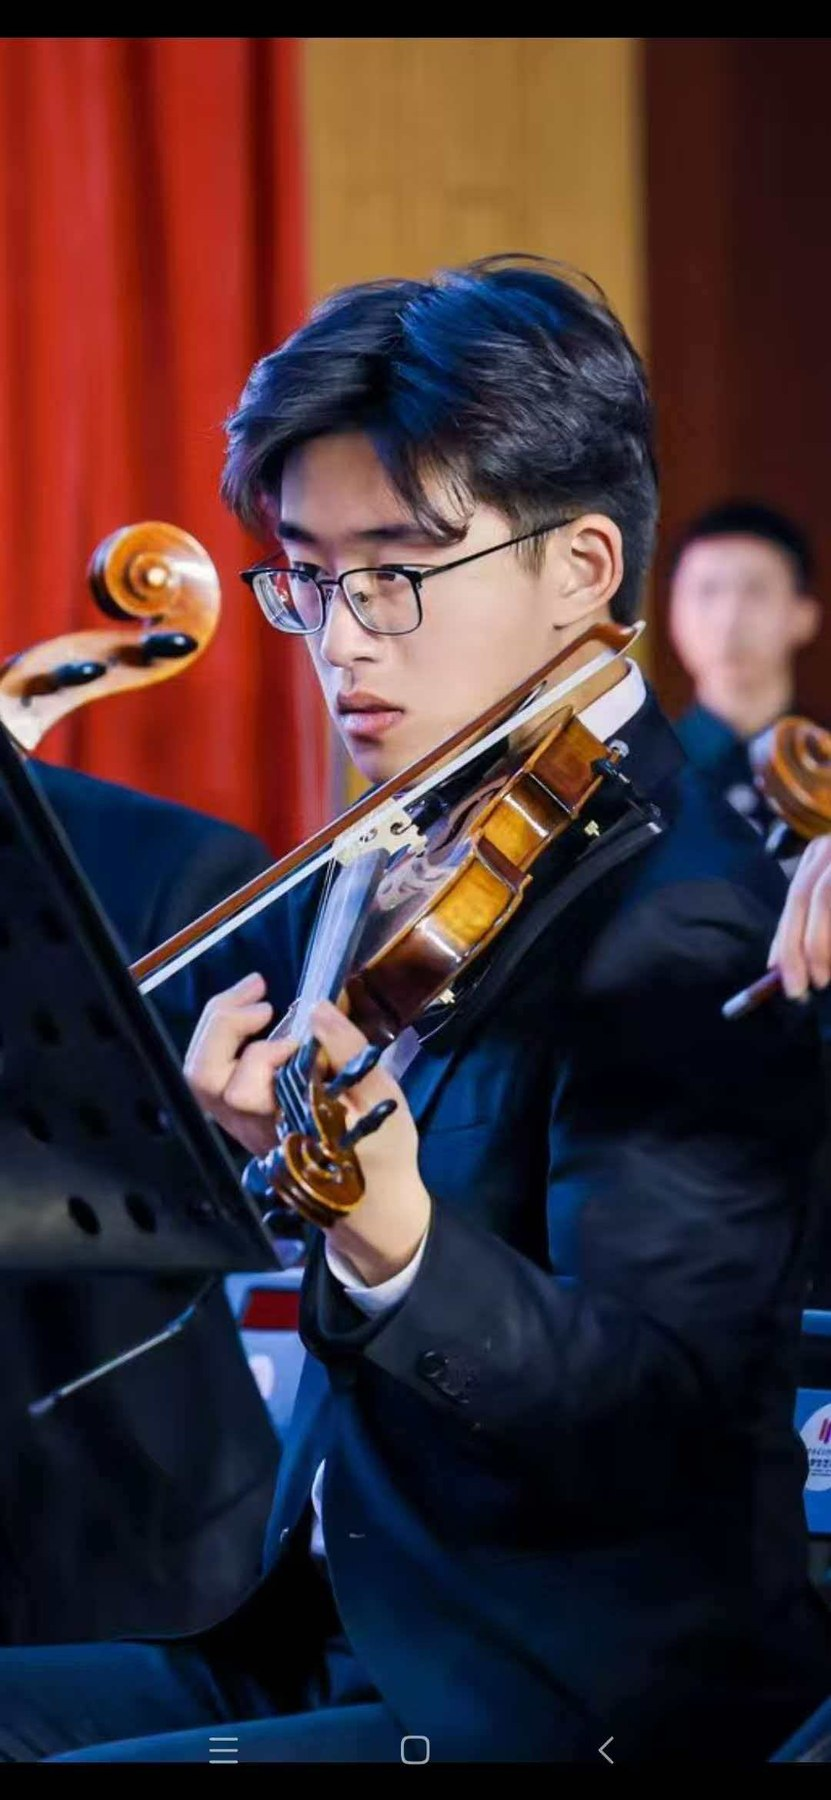
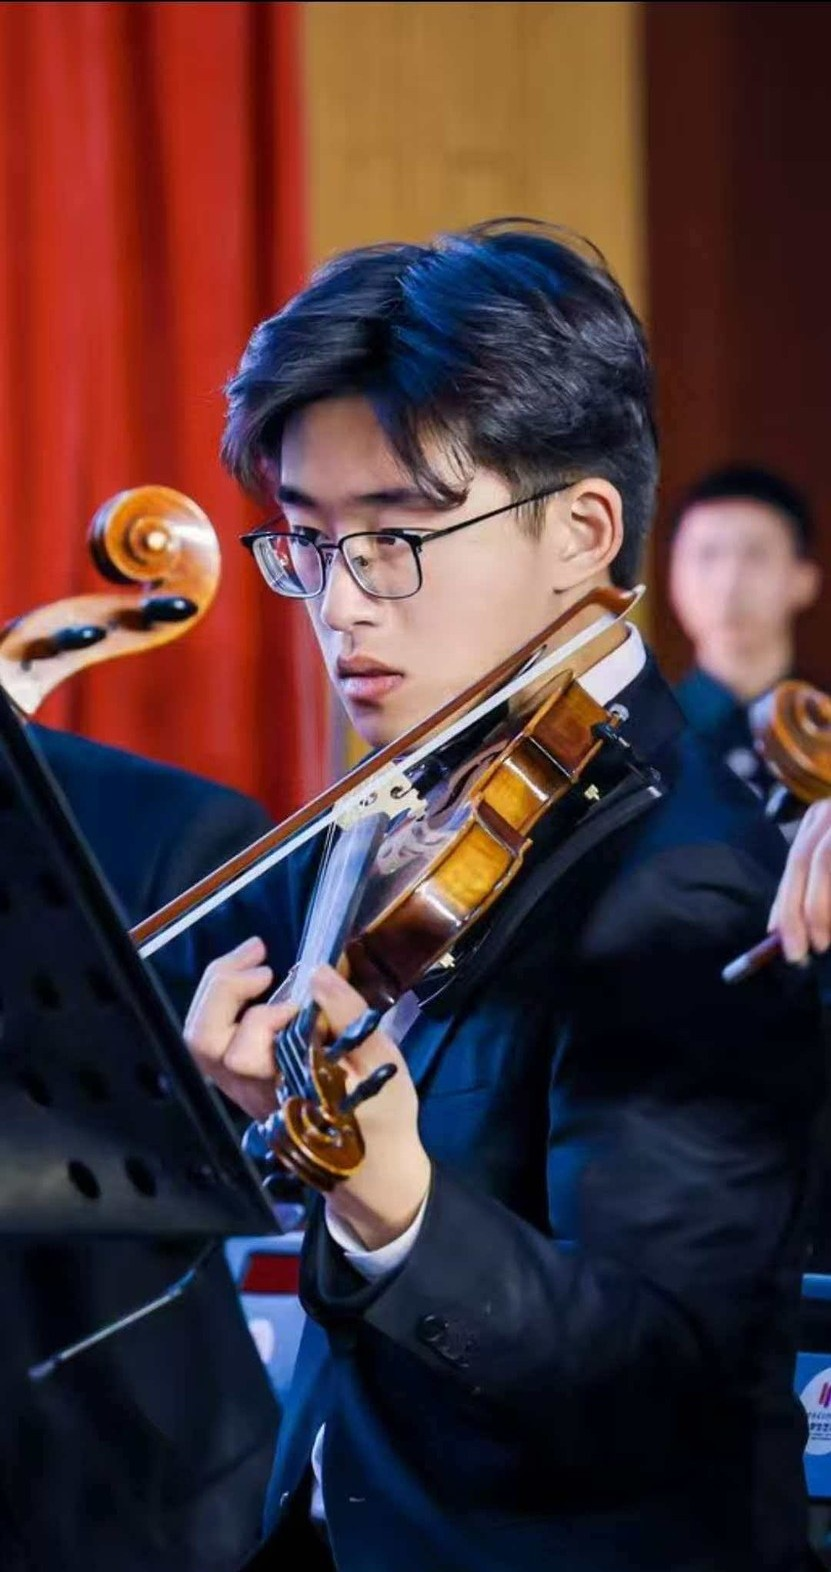
优化移动端展示与生活剪影

diff --git a/index.html b/index.html
@@ -12,8 +12,8 @@
   <meta property="og:url" content="https://biochemaiwill.github.io/" />
   <link rel="canonical" href="https://biochemaiwill.github.io/" />
   <title>Tianxiang Wu — AI × Drug Discovery</title>
-  <link rel="stylesheet" href="styles.css?v=20260822-7" />
-  <script defer src="script.js?v=20260822-7"></script>
+  <link rel="stylesheet" href="styles.css?v=20260822-8" />
+  <script defer src="script.js?v=20260822-8"></script>
 </head>
 <body>
   <div class="page-noise" aria-hidden="true"></div>
@@ -42,6 +42,12 @@
       </div>
     </div>
   </header>
+  <nav class="mobile-bottom-nav" aria-label="Mobile navigation">
+    <a href="#profile" data-i18n="nav.profile">Profile</a>
+    <a href="#research" data-i18n="nav.research">Research</a>
+    <a href="#experience" data-i18n="nav.experience">Experience</a>
+    <a href="#contact" data-i18n="nav.links">Links</a>
+  </nav>
 
   <main id="top">
     <section class="hero">
@@ -97,6 +103,17 @@
         <div class="fact"><span class="fact-label" data-i18n="facts.current.label">Current</span><strong data-i18n="facts.current.org">Tsinghua AIR</strong><small data-i18n="facts.current.value">Research Intern</small></div>
         <div class="fact"><span class="fact-label" data-i18n="facts.education.label">Education</span><strong data-i18n="facts.education.org">Xidian University</strong><small data-i18n="facts.education.value">Computer Science</small></div>
         <div class="fact"><span class="fact-label" data-i18n="facts.focus.label">Focus</span><strong data-i18n="facts.focus.org">AI4Science</strong><small data-i18n="facts.focus.value">Data · Molecules · Proteins</small></div>
+      </div>
+
+      <div class="mobile-profile-panel reveal">
+        <span data-i18n="mobile.kicker">Mobile overview</span>
+        <strong data-i18n="mobile.title">Research, honors and projects at a glance</strong>
+        <div class="mobile-stat-grid">
+          <a href="#profile"><b>2 / 96</b><small data-i18n="mobile.rank">Track ranking</small></a>
+          <a href="#research"><b>CCF A</b><small data-i18n="mobile.paper">Published work</small></a>
+          <a href="#profile"><b data-i18n="mobile.scholarship.value">National</b><small data-i18n="mobile.scholarship">Scholarship</small></a>
+          <a href="#experience"><b>714 h</b><small data-i18n="mobile.service">Service record</small></a>
+        </div>
       </div>
 
       <a class="scroll-cue" href="#research"><span data-i18n="scroll">Scroll to research</span><i></i></a>
@@ -258,7 +275,7 @@
       <div class="section-kicker reveal"><span>00+</span><p data-i18n="life.kicker">Life moments</p></div>
       <div class="life-heading reveal">
         <h2 data-i18n-html="life.heading">Research, service<br><em>and life in motion</em></h2>
-        <p data-i18n="life.summary">Research training, international exchange, orchestra performance and volunteer service</p>
+        <p data-i18n="life.summary">Research training, academic sharing, international exchange and orchestra performance</p>
       </div>
       <div class="life-gallery">
         <figure class="life-card life-feature reveal">
@@ -269,15 +286,15 @@
         </figure>
         <figure class="life-card reveal">
           <a href="assets/life/orchestra-violin.jpg" target="_blank" rel="noreferrer">
-            <img src="assets/life/orchestra-violin.jpg" alt="Violin performance with Xidian Symphony Orchestra" loading="lazy" />
+            <img src="assets/life/orchestra-violin.jpg" alt="Performance with Xidian Symphony Orchestra" loading="lazy" />
           </a>
-          <figcaption data-i18n="life.orchestra">Xidian Symphony Orchestra violin performance</figcaption>
+          <figcaption data-i18n="life.orchestra">Xidian Symphony Orchestra performance</figcaption>
         </figure>
         <figure class="life-card reveal">
           <a href="assets/life/national-scholarship-defense.jpg" target="_blank" rel="noreferrer">
-            <img src="assets/life/national-scholarship-defense.jpg" alt="National Scholarship defense presentation" loading="lazy" />
+            <img src="assets/life/national-scholarship-defense.jpg" alt="Career-planning sharing session for junior students" loading="lazy" />
           </a>
-          <figcaption data-i18n="life.defense">National Scholarship defense</figcaption>
+          <figcaption data-i18n="life.careerSharing">Career-planning sharing session</figcaption>
         </figure>
         <figure class="life-card reveal">
           <a href="assets/life/cambridge-life.jpg" target="_blank" rel="noreferrer">

diff --git a/script.js b/script.js
@@ -47,6 +47,13 @@ const translations = {
     'facts.focus.label': 'Focus',
     'facts.focus.org': 'AI4Science',
     'facts.focus.value': 'Data · Molecules · Proteins',
+    'mobile.kicker': 'Mobile overview',
+    'mobile.title': 'Research, honors and projects at a glance',
+    'mobile.rank': 'Track ranking',
+    'mobile.paper': 'Published work',
+    'mobile.scholarship.value': 'National',
+    'mobile.scholarship': 'Scholarship',
+    'mobile.service': 'Service record',
     'spotlight.scholarship.kicker': 'Scholarship',
     'spotlight.scholarship.value': 'National',
     'spotlight.scholarship.note': '2024-2025 National Scholarship',
@@ -107,10 +114,10 @@ const translations = {
     'credentials.meeting': 'Student committee and campus service work',
     'life.kicker': 'Life moments',
     'life.heading': 'Research, service<br><em>and life in motion</em>',
-    'life.summary': 'Research training, scholarship defense, international exchange and orchestra performance',
+    'life.summary': 'Research training, academic sharing, international exchange and orchestra performance',
     'life.air': 'Tsinghua AIR research internship',
-    'life.orchestra': 'Xidian Symphony Orchestra violin performance',
-    'life.defense': 'National Scholarship defense',
+    'life.orchestra': 'Xidian Symphony Orchestra performance',
+    'life.careerSharing': 'Career-planning sharing session',
     'life.cambridge': 'Cambridge summer visit',
     'ticker.aidd': 'AI for Drug Discovery',
     'ticker.ie': 'Scientific Information Extraction',
@@ -239,6 +246,13 @@ const translations = {
     'facts.focus.label': '方向',
     'facts.focus.org': 'AI for Science',
     'facts.focus.value': '数据 · 分子 · 蛋白质',
+    'mobile.kicker': '手机版概览',
+    'mobile.title': '研究、成果与经历快速查看',
+    'mobile.rank': '专业方向排名',
+    'mobile.paper': '已发表论文',
+    'mobile.scholarship.value': '国家奖学金',
+    'mobile.scholarship': '奖学金',
+    'mobile.service': '志愿服务记录',
     'spotlight.scholarship.kicker': '奖学金',
     'spotlight.scholarship.value': '国家奖学金',
     'spotlight.scholarship.note': '2024-2025 学年本科生国家奖学金',
@@ -299,10 +313,10 @@ const translations = {
     'credentials.meeting': '学生工作与校园服务',
     'life.kicker': '生活剪影',
     'life.heading': '科研、服务与<br><em>真实生活现场</em>',
-    'life.summary': '保留更有辨识度的科研实习、国家奖学金答辩、国际交流和交响乐团演出瞬间',
+    'life.summary': '保留更有辨识度的科研实习、生涯规划分享、国际交流和交响乐团演出瞬间',
     'life.air': '清华 AIR 科研实习',
-    'life.orchestra': '西电交响乐团小提琴演出',
-    'life.defense': '国家奖学金答辩',
+    'life.orchestra': '西电交响乐团演出',
+    'life.careerSharing': '生涯规划分享',
     'life.cambridge': '剑桥大学访学',
     'ticker.aidd': 'AI 药物发现',
     'ticker.ie': '科学信息抽取',
@@ -484,9 +498,10 @@ if ('IntersectionObserver' in window) {
   revealEls.forEach((el) => el.classList.add('visible'));
 }
 
-const navLinks = [...document.querySelectorAll('.nav a[href^="#"]')];
-const sections = navLinks
-  .map((link) => ({ link, section: document.querySelector(link.getAttribute('href')) }))
+const navLinks = [...document.querySelectorAll('.nav a[href^="#"], .mobile-bottom-nav a[href^="#"]')];
+const sectionMap = new Map(navLinks.map((link) => [link.getAttribute('href'), document.querySelector(link.getAttribute('href'))]));
+const sections = [...sectionMap.entries()]
+  .map(([href, section]) => ({ href, section }))
   .filter((item) => item.section);
 if (navLinks.length && sections.length) {
   const setActiveNav = () => {
@@ -495,7 +510,7 @@ if (navLinks.length && sections.length) {
     sections.forEach((item) => {
       if (item.section.offsetTop <= marker) active = item;
     });
-    navLinks.forEach((link) => link.classList.toggle('active', link === active.link));
+    navLinks.forEach((link) => link.classList.toggle('active', link.getAttribute('href') === active.href));
   };
   setActiveNav();
   window.addEventListener('scroll', setActiveNav, { passive: true });

diff --git a/styles.css b/styles.css
@@ -155,6 +155,7 @@ a:focus-visible{outline:2px solid var(--blue);outline-offset:4px}
 .contact-links a:hover{background:rgba(255,255,255,.24)}
 .nav a.active{color:#fff}
 .nav a.active:after{transform:scaleX(1)}
+.mobile-bottom-nav,.mobile-profile-panel{display:none}
 
 .lightbox{
   position:fixed;
@@ -220,6 +221,23 @@ a:focus-visible{outline:2px solid var(--blue);outline-offset:4px}
   .about-statement h2{font-size:52px}.principle-grid{grid-template-columns:1fr}.about-copy .about-lede{font-size:25px}
   .experience-heading{display:block}.experience-heading h2{font-size:58px}.experience-heading p{margin-top:24px}.timeline-item{grid-template-columns:1fr 48px;gap:20px}.timeline-year{grid-column:1/3}.timeline-index{grid-column:2;grid-row:2}.timeline-main{grid-column:1;grid-row:2}
   .output-title h2{font-size:52px}.contact-section{padding:90px 20px}.contact-copy h2{font-size:78px}.contact-links a{grid-template-columns:1fr auto}.contact-links small{display:none}.site-footer{padding:20px;flex-direction:column}
+}
+@media(max-width:760px){
+  body{padding-bottom:72px}
+  .mobile-bottom-nav{position:fixed;z-index:70;left:14px;right:14px;bottom:12px;display:grid;grid-template-columns:repeat(4,minmax(0,1fr));gap:3px;padding:6px;border:1px solid rgba(255,255,255,.18);border-radius:24px;background:rgba(7,15,27,.86);backdrop-filter:blur(18px);box-shadow:0 22px 62px rgba(3,9,18,.34)}
+  .mobile-bottom-nav a{position:relative;min-width:0;padding:12px 5px;border-radius:18px;text-align:center;font:800 10px/1 var(--mono);letter-spacing:.02em;color:#b9c7d2;white-space:nowrap;transition:background .2s,color .2s,transform .2s}
+  .mobile-bottom-nav a:before{content:'';display:block;width:4px;height:4px;margin:0 auto 6px;border-radius:50%;background:rgba(119,216,255,.38);box-shadow:0 0 14px rgba(119,216,255,.18)}
+  .mobile-bottom-nav a.active{background:linear-gradient(180deg,rgba(237,248,255,.96),rgba(198,236,255,.9));color:#07101c;transform:translateY(-2px)}
+  .mobile-bottom-nav a.active:before{background:#0b1725;box-shadow:none}
+  .mobile-profile-panel{grid-column:1;position:relative;z-index:2;display:block;max-width:min(350px,calc(100vw - 40px));padding:16px;border:1px solid rgba(255,255,255,.16);border-radius:24px;background:linear-gradient(145deg,rgba(255,255,255,.12),rgba(255,255,255,.035));box-shadow:0 24px 70px rgba(0,0,0,.24),inset 0 1px 0 rgba(255,255,255,.08)}
+  .hero-copy{order:1}.mobile-profile-panel{order:2}.hero-visual{order:3}.hero-facts{order:4}
+  .mobile-profile-panel>span{display:block;margin-bottom:10px;font:800 9px/1 var(--mono);text-transform:uppercase;letter-spacing:.1em;color:#8fa7ba}
+  .mobile-profile-panel>strong{display:block;font:650 20px/1.2 var(--sans);letter-spacing:-.03em;color:#eef8ff}
+  .mobile-stat-grid{display:grid;grid-template-columns:1fr 1fr;gap:8px;margin-top:14px}
+  .mobile-stat-grid a{display:grid;gap:6px;min-height:74px;padding:12px;border:1px solid rgba(255,255,255,.12);border-radius:18px;background:rgba(255,255,255,.07)}
+  .mobile-stat-grid b{font:800 20px/1 var(--sans);letter-spacing:-.04em;color:#fff}
+  .mobile-stat-grid small{font:700 10px/1.35 var(--mono);letter-spacing:.02em;color:#9bb0c0}
+  html[lang="zh-CN"] .mobile-profile-panel>strong{font-size:21px}
 }
 @media(max-width:600px){
   .header-tools{position:fixed;top:18px;left:auto;right:20px;z-index:60}
